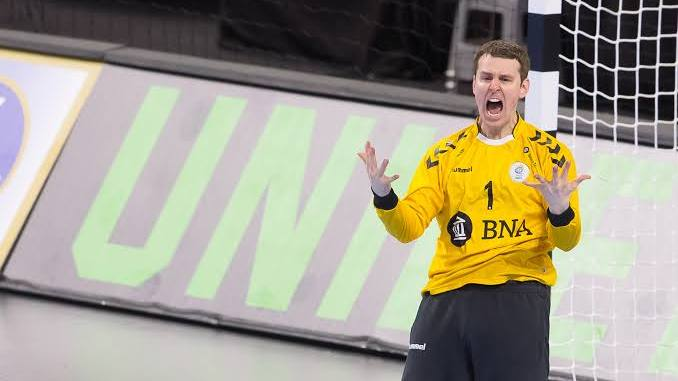
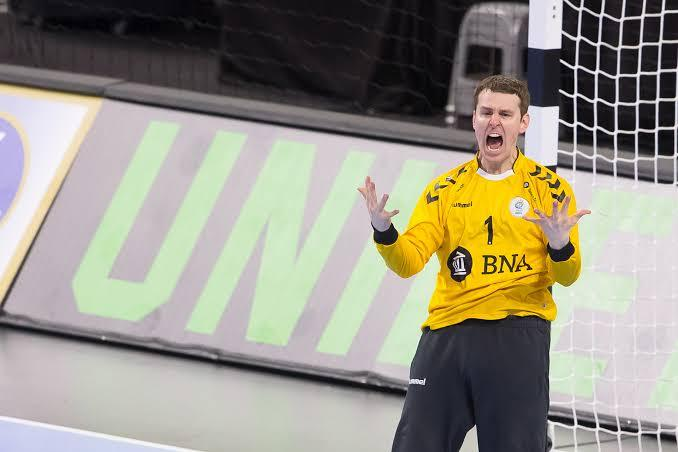
"Hoy" ya no era hoy, y las fotos ya no se recortan
Dos cosas que marcó Diego:

1. El filtro "Hoy" mostraba una sola carrera mientras el histórico subía.
   No capturaba mal: la etiqueta mentía. Filtraba daily = true, o sea
   sólo el desafío diario. Los números de la base: 40 carreras, 14
   jugadas hoy, pero apenas 1 en modo desafío. Ahora son dos filtros
   distintos — "Hoy" (todo lo terminado hoy, en cualquier modo) y
   "🎯 Desafío" (el ranking de la semilla del día) — con su parámetro
   p_today propio en top_runs y textos en los tres idiomas.

2. Las fotos se recortaban dos veces: al importarlas las forcé a 16:9 y
   el CSS las volvía a cortar a 21:9 con object-fit: cover. Se comía
   media imagen. Las once fotos reales se re-extrajeron del original y
   ahora sólo se achican, respetando su forma (la charla táctica volvió
   de 1024x576 a 1024x682 completa), y el CSS las muestra enteras con
   object-fit: contain y tope de alto. Verificado con cuatro formas
   distintas: 1.50, 1.48, 1.78 y 2.40 se ven sin recorte.

Los recortes deliberados se mantienen: son los que sacaban texto falso
que inventó la IA en bolsos y camisetas.

diff --git a/src/i18n.js b/src/i18n.js
@@ -545,10 +545,12 @@ const es = {
     world: "{n} carreras jugadas en todo el mundo · promedio {avg} puntos",
     worldOne: "1 carrera jugada en todo el mundo · {avg} puntos",
     worldEmpty: "Todavía no hay carreras en el ranking mundial. ¡La tuya puede ser la primera!",
-    todayEmpty: "Nadie jugó el desafío de hoy todavía. ¡Estrenalo vos!",
     worldError: "No se pudo cargar el ranking mundial. Probá de nuevo en un rato.",
     f_all: "Histórico",
-    f_today: "🎯 Hoy",
+    f_today: "Hoy",
+    f_daily: "🎯 Desafío",
+    todayEmpty: "Nadie terminó una carrera hoy todavía. Estrenala vos.",
+    dailyEmpty: "Nadie jugó el desafío de hoy todavía. ¡Estrenalo vos!",
     f_week: "Semana",
     f_fem: "Femenino",
     f_arg: "🇦🇷 Argentina",
@@ -1116,10 +1118,12 @@ const fr = {
     world: "{n} carrières jouées dans le monde · moyenne {avg} points",
     worldOne: "1 carrière jouée dans le monde · {avg} points",
     worldEmpty: "Pas encore de carrières au classement mondial. La tienne peut être la première !",
-    todayEmpty: "Personne n'a joué le défi du jour. Sois le premier !",
     worldError: "Impossible de charger le classement mondial. Réessaie dans un moment.",
     f_all: "Historique",
-    f_today: "🎯 Aujourd'hui",
+    f_today: "Aujourd'hui",
+    f_daily: "🎯 Défi",
+    todayEmpty: "Personne n'a terminé de carrière aujourd'hui. Sois le premier.",
+    dailyEmpty: "Personne n'a joué le défi du jour. Sois le premier !",
     f_week: "Semaine",
     f_fem: "Féminin",
     f_arg: "🇦🇷 Argentine",
@@ -1692,10 +1696,12 @@ const de = {
     world: "{n} Karrieren weltweit gespielt · Schnitt {avg} Punkte",
     worldOne: "1 Karriere weltweit gespielt · {avg} Punkte",
     worldEmpty: "Noch keine Karrieren in der Weltrangliste. Deine kann die erste sein!",
-    todayEmpty: "Noch niemand hat die heutige Challenge gespielt. Sei du es!",
     worldError: "Weltrangliste konnte nicht geladen werden. Versuch es gleich nochmal.",
     f_all: "Alle Zeiten",
-    f_today: "🎯 Heute",
+    f_today: "Heute",
+    f_daily: "🎯 Challenge",
+    todayEmpty: "Heute hat noch niemand eine Karriere beendet. Mach den Anfang.",
+    dailyEmpty: "Noch niemand hat die heutige Challenge gespielt. Sei du es!",
     f_week: "Woche",
     f_fem: "Frauen",
     f_arg: "🇦🇷 Argentinien",

diff --git a/src/ui.js b/src/ui.js
@@ -1211,7 +1211,9 @@ let worldCache = {};
 // solo femenino y solo Argentina. Todos salen de la función top_runs.
 const WORLD_FILTERS = [
   { id: "all" },
-  { id: "today", daily: true },
+  // "Hoy" es todo lo jugado hoy; el desafío es sólo el de la semilla del día.
+  { id: "today", today: true },
+  { id: "daily", daily: true },
   { id: "week", days: 7 },
   { id: "fem", rama: "F" },
   { id: "arg", country: "ARG" },
@@ -1274,6 +1276,7 @@ async function fetchWorld(filter) {
       p_country: filter.country ?? null,
       p_days: filter.days ?? null,
       p_daily: filter.daily ?? false,
+      p_today: filter.today ?? false,
     }),
   }).then((r) => r.json());
   return { rows: Array.isArray(rows) ? rows : [], stats: null };
@@ -1300,7 +1303,9 @@ async function renderWorldBoard() {
     return;
   }
   if (!rows.length) {
-    box.innerHTML = `<li class="board-empty">${t(filter.id === "today" ? "board.todayEmpty" : "board.worldEmpty")}</li>`;
+    const vacio = filter.id === "daily" ? "board.dailyEmpty"
+      : filter.id === "today" ? "board.todayEmpty" : "board.worldEmpty";
+    box.innerHTML = `<li class="board-empty">${t(vacio)}</li>`;
     el("board-note").textContent = "";
     return;
   }

diff --git a/site/styles.css b/site/styles.css
@@ -401,9 +401,12 @@ fieldset { border: 0; padding: 0; margin: 0; display: grid; gap: 8px; }
 
 /* Foto del evento: banner panorámico, no pantalla completa — la decisión
    tiene que entrar sin scrollear. */
+/* Sin recorte: la foto se muestra entera, con su forma original. Antes se
+   forzaba a 21:9 con object-fit: cover y se comía media imagen. */
 .decision-photo {
-  width: 100%; aspect-ratio: 21 / 9; max-height: 190px; object-fit: cover;
-  border-radius: var(--radius); margin-bottom: 14px; display: block;
+  max-width: 100%; max-height: 230px; width: auto; height: auto;
+  object-fit: contain; margin: 0 auto 14px; display: block;
+  border-radius: var(--radius);
   -webkit-mask-image: linear-gradient(to bottom, #000 78%, transparent);
   mask-image: linear-gradient(to bottom, #000 78%, transparent);
 }

diff --git a/styles.css b/styles.css
@@ -401,9 +401,12 @@ fieldset { border: 0; padding: 0; margin: 0; display: grid; gap: 8px; }
 
 /* Foto del evento: banner panorámico, no pantalla completa — la decisión
    tiene que entrar sin scrollear. */
+/* Sin recorte: la foto se muestra entera, con su forma original. Antes se
+   forzaba a 21:9 con object-fit: cover y se comía media imagen. */
 .decision-photo {
-  width: 100%; aspect-ratio: 21 / 9; max-height: 190px; object-fit: cover;
-  border-radius: var(--radius); margin-bottom: 14px; display: block;
+  max-width: 100%; max-height: 230px; width: auto; height: auto;
+  object-fit: contain; margin: 0 auto 14px; display: block;
+  border-radius: var(--radius);
   -webkit-mask-image: linear-gradient(to bottom, #000 78%, transparent);
   mask-image: linear-gradient(to bottom, #000 78%, transparent);
 }
